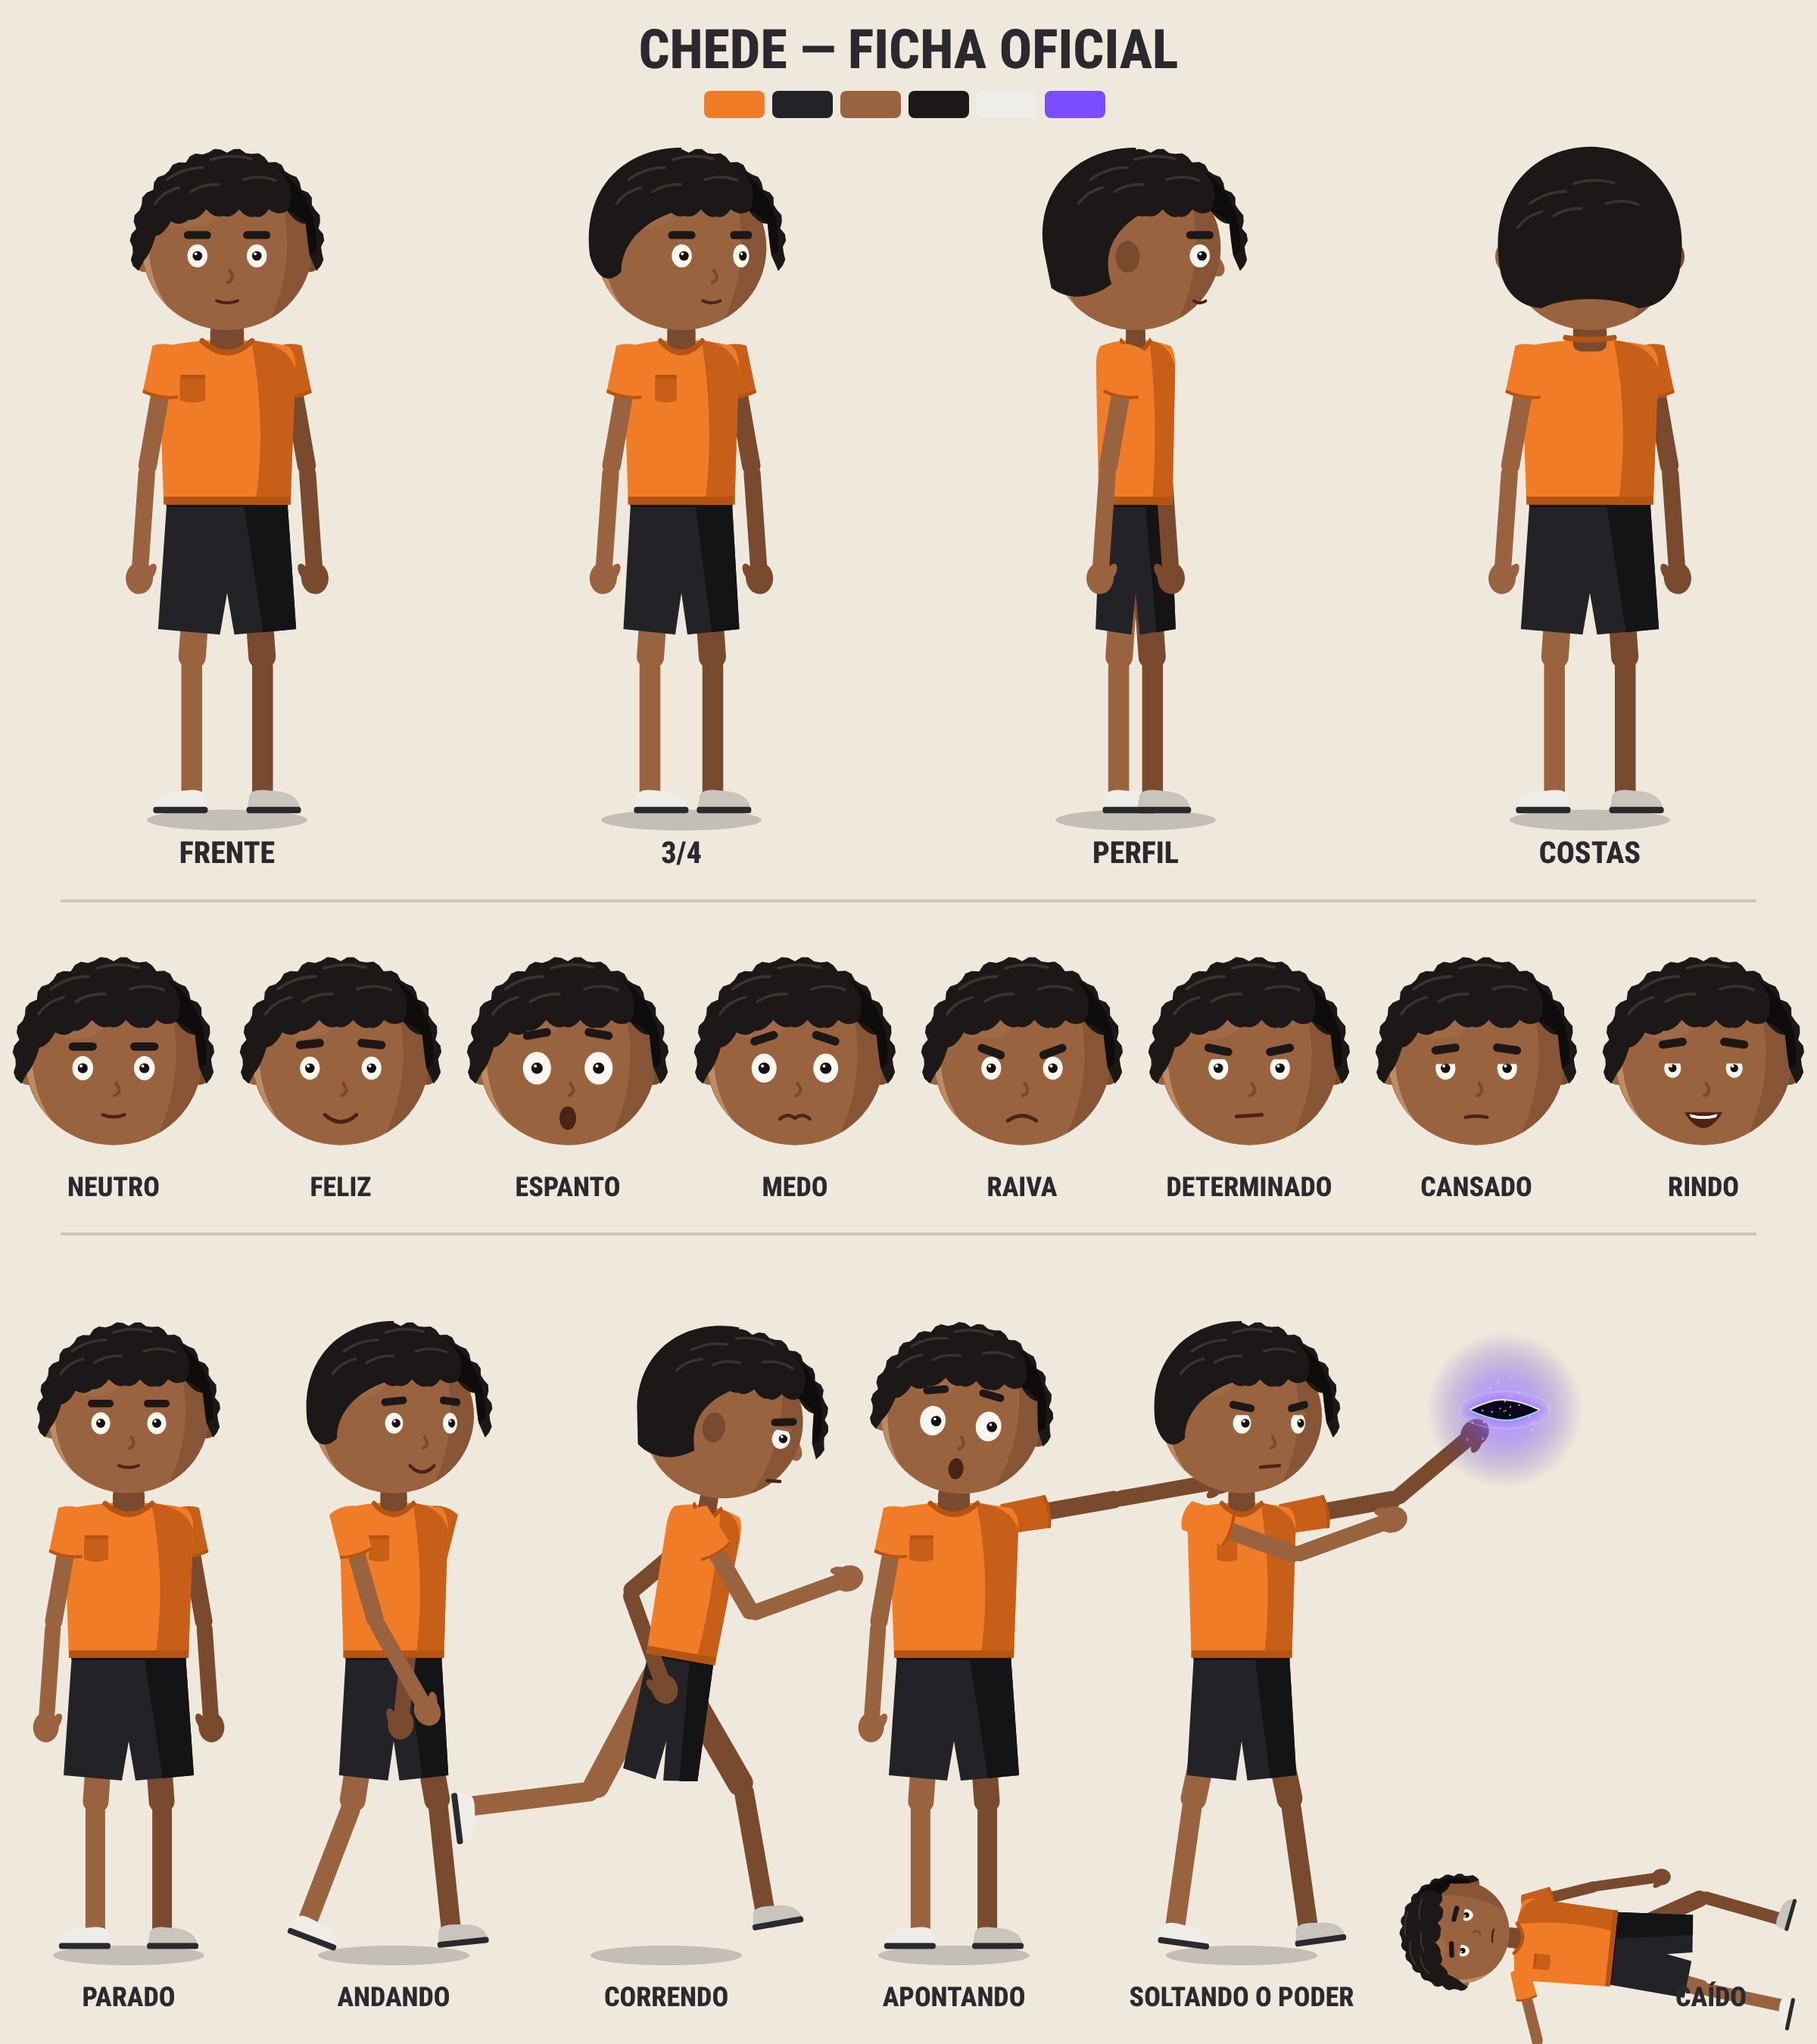
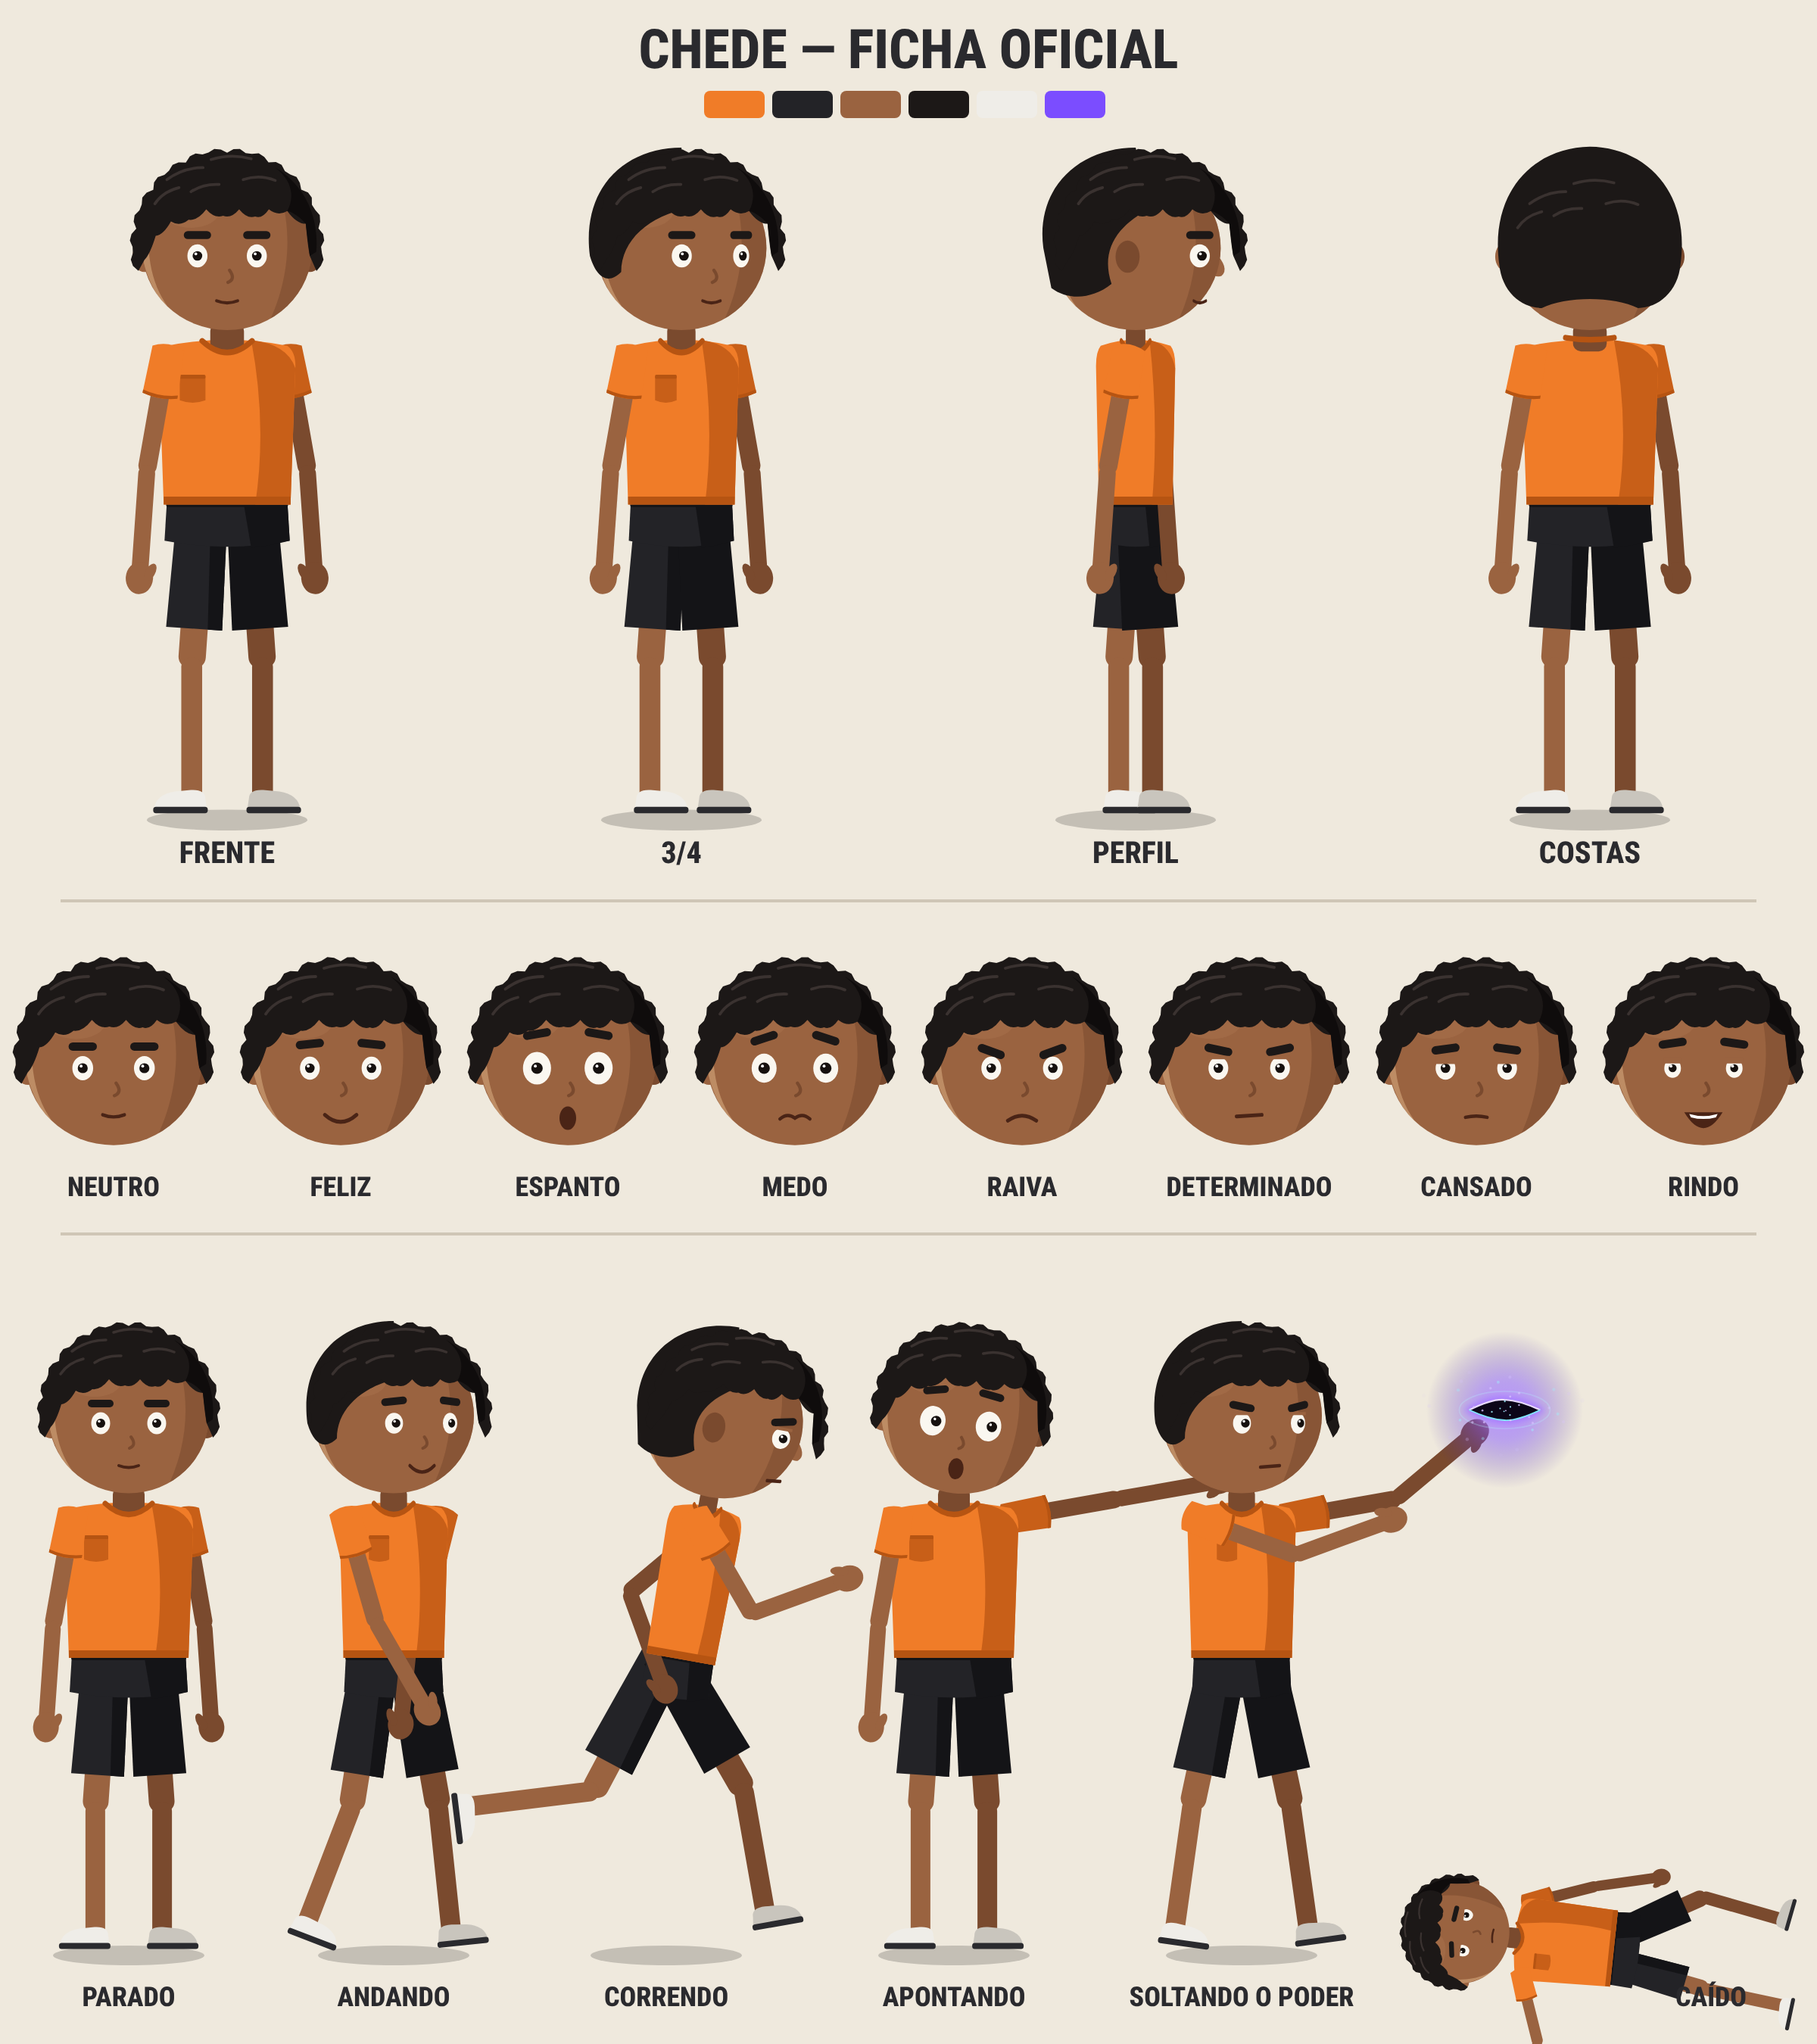
Corrige bermuda para acompanhar as pernas e adiciona roteiro da parte 1
Claude-Session: https://claude.ai/code/session_01VxVnSB2Gp8guziDvUfHTY2

diff --git a/estudio/src/personagens/Chede.tsx b/estudio/src/personagens/Chede.tsx
@@ -314,7 +314,7 @@ const Perna: React.FC<{ lado: 1 | -1; quadril: number; joelho: number; sombra?: 
   const pele = sombra ? C.peleSombra : C.pele;
   return (
     <g transform={`rotate(${-quadril * lado})`}>
-      {/* coxa (coberta pela bermuda) */}
+      {/* coxa */}
       <rect x={-34} y={0} width={68} height={390} rx={30} fill={pele} />
       <g transform={`translate(0,376) rotate(${-joelho * lado})`}>
         <rect x={-26} y={-14} width={52} height={360} rx={24} fill={pele} />
@@ -324,6 +324,9 @@ const Perna: React.FC<{ lado: 1 | -1; quadril: number; joelho: number; sombra?: 
           <rect x={-52} y={-6} width={136} height={16} rx={7} fill={C.tenisSola} transform={pe === -1 ? "scale(-1,1)" : undefined} />
         </g>
       </g>
+      {/* perna da bermuda: acompanha a coxa */}
+      <path d="M -62 -40 L 62 -40 L 70 290 L -70 290 Z" fill={sombra ? C.bermudaSombra : C.bermuda} />
+      {!sombra && <path d="M 20 -40 L 62 -40 L 70 290 L 34 290 Z" fill={C.bermudaSombra} />}
     </g>
   );
 };
@@ -366,8 +369,8 @@ export const Chede: React.FC<{ expressao?: Expressao; pose?: Pose; vista?: Vista
       <g transform={`rotate(${P.tronco ?? 0} 0 -560) translate(0,${-resp * 6})`}>
         {/* bermuda */}
         <g transform={`scale(${sx},1)`}>
-        <path d="M -150 -790 L 150 -790 L 172 -470 L 18 -456 L 0 -560 L -18 -456 L -172 -470 Z" fill={C.bermuda} />
-        <path d="M 40 -790 L 150 -790 L 172 -470 L 90 -462 Z" fill={C.bermudaSombra} />
+        <path d="M -150 -790 L 150 -790 L 156 -690 Q 0 -660 -156 -690 Z" fill={C.bermuda} />
+        <path d="M 40 -790 L 150 -790 L 156 -690 Q 100 -676 60 -672 Z" fill={C.bermudaSombra} />
         <rect x={-152} y={-800} width={304} height={26} rx={6} fill={C.bermudaSombra} />
         </g>
         {/* braço de trás (direita da tela) */}

diff --git a/roteiros/serie-sumir-parte-1.md b/roteiros/serie-sumir-parte-1.md
@@ -1,0 +1,40 @@
+# Série "E se você acordasse podendo sumir com qualquer coisa?" · Parte 1
+
+- **Modelo:** A (etapas) · **Duração alvo:** ~62 s (≈170 palavras)
+- **Capa:** "E SE VOCÊ ACORDASSE" / "PODENDO **SUMIR** COM TUDO?" / "PARTE 1" (palavra-chave: SUMIR, em roxo brilhante)
+- **Poder (versão original):** fenda dimensional na palma da mão. Puxa coisas para outro lugar,
+  devolve depois e deixa partes do corpo "fora daqui" (atravessa objetos).
+- **Status:** rascunho, aguardando aprovação
+
+| Tempo | Narração | Cena |
+|---|---|---|
+| 0–3 s | E se você acordasse podendo **sumir** com qualquer coisa? | Capa: título grande, Chede espantado com a fenda na mão. Zoom lento. |
+| 3–6 s | O Chede acordou com o despertador gritando. | Quarto de manhã, feixe de sol. Close no despertador tremendo. Chede na cama, cara de cansado. |
+| 6–8 s | Deu um tapa pra desligar… | Close da mão descendo sobre o despertador. |
+| 8–10 s | …e o despertador **sumiu**. | Fenda roxa abre na palma, flash, despertador é sugado. Silêncio. |
+| 10–12 s | Não caiu. Não quebrou. Sumiu. | Chede olha embaixo da cama, atrás do criado-mudo. Nada. |
+| 12–15 s | Na palma, um rasgo **roxo** se fechando. | Close da mão: a fenda encolhe com estalos de luz. Olhos arregalados. |
+| 15–18 s | Ele testou de novo. Meia suja. **Sumiu.** | Meia no chão é puxada pela fenda. Chede sorri de lado. |
+| 18–21 s | Louça de três dias. **Sumiu.** | Pia cheia de pratos; um gesto e a pia fica limpa. Chede de braços cruzados, orgulhoso. |
+| 21–24 s | E toda vez que fechava, dava um vento puxando pra dentro. | Cortina e papéis voando em direção à mão. |
+| 24–28 s | Faz sentido: a coisa some e o **ar** corre pra ocupar o lugar. | Esquema simples: setas de ar entrando no espaço vazio. |
+| 28–31 s | Aí veio a pergunta: pra **onde** vai? | Chede pensativo, balão de pensamento com um ponto de interrogação girando. |
+| 31–34 s | Ele mandou o celular, gravando. | Celular com a câmera ligada entra na fenda. |
+| 34–37 s | Puxou de volta. Dez segundos de vídeo. | Fenda devolve o celular; Chede dá play. |
+| 37–41 s | Um chão de pedra. Céu escuro. **Silêncio.** | Tela do celular: lugar vazio, blocos de pedra, céu escuro. Câmera entra na tela. |
+| 41–44 s | E a louça dele, empilhada lá no meio. | No vídeo: a pilha de pratos e o despertador no chão de pedra. |
+| 44–47 s | Então o poder não destrói. Ele **guarda**. | Chede aliviado, rindo. |
+| 47–50 s | Aí ele ficou ousado. Tentou com a própria mão. | Chede determinado encosta a mão na mesa. |
+| 50–53 s | A mão ficou **transparente** e atravessou a mesa. | Mão translúcida com borda roxa passando pela madeira. |
+| 53–56 s | Não sentia nada. Porque, tecnicamente, ela não estava aqui. | Close no rosto: medo crescendo. |
+| 56–59 s | Quando ele foi puxar a mão de volta… | Chede puxa; o braço não volta. Tremor na câmera. |
+| 59–61 s | …alguma coisa do outro lado **segurou**. | Flash; dedos escuros aparecem na borda da fenda. Corte seco. |
+| 61–64 s | Na parte 2: quem mais está nesse lugar? | Tela escura, "PARTE 2" grande. |
+
+## Checklist do ebook
+- [x] Primeira frase é a premissa, sem "oi"
+- [x] Frases de até 15 palavras
+- [x] Novidade a cada 3–5 s, etapas crescentes (despertador → louça → celular → a própria mão)
+- [x] Consequência lógica, no estilo da referência (o ar corre pro vazio; o poder guarda, não destrói)
+- [x] Virada antes do fim (algo segura a mão)
+- [x] Gancho para a parte 2

diff --git a/aprendizados.md b/aprendizados.md
@@ -18,3 +18,6 @@ Regras que valem para todos os vídeos. Cada uma com o motivo.
 - Whisper: usar `HF_HUB_DISABLE_XET=1` e passar o áudio como array (wav 16 kHz), não o caminho.
 - Render: `npx remotion ... --browser-executable=/opt/pw-browsers/chromium`.
 - Voz provisória gratuita: `espeak-ng -v pt-br`.
+- **Bermuda presa às pernas**: cada perna da bermuda é desenhada junto com a coxa (não no tronco).
+  Motivo: correndo, a perna saía da bermuda e parecia que o Chede estava pelado.
+- **Série 1 = poder de sumir com as coisas (inspirado no kamui, versão original)**. Motivo: escolha do usuário.
